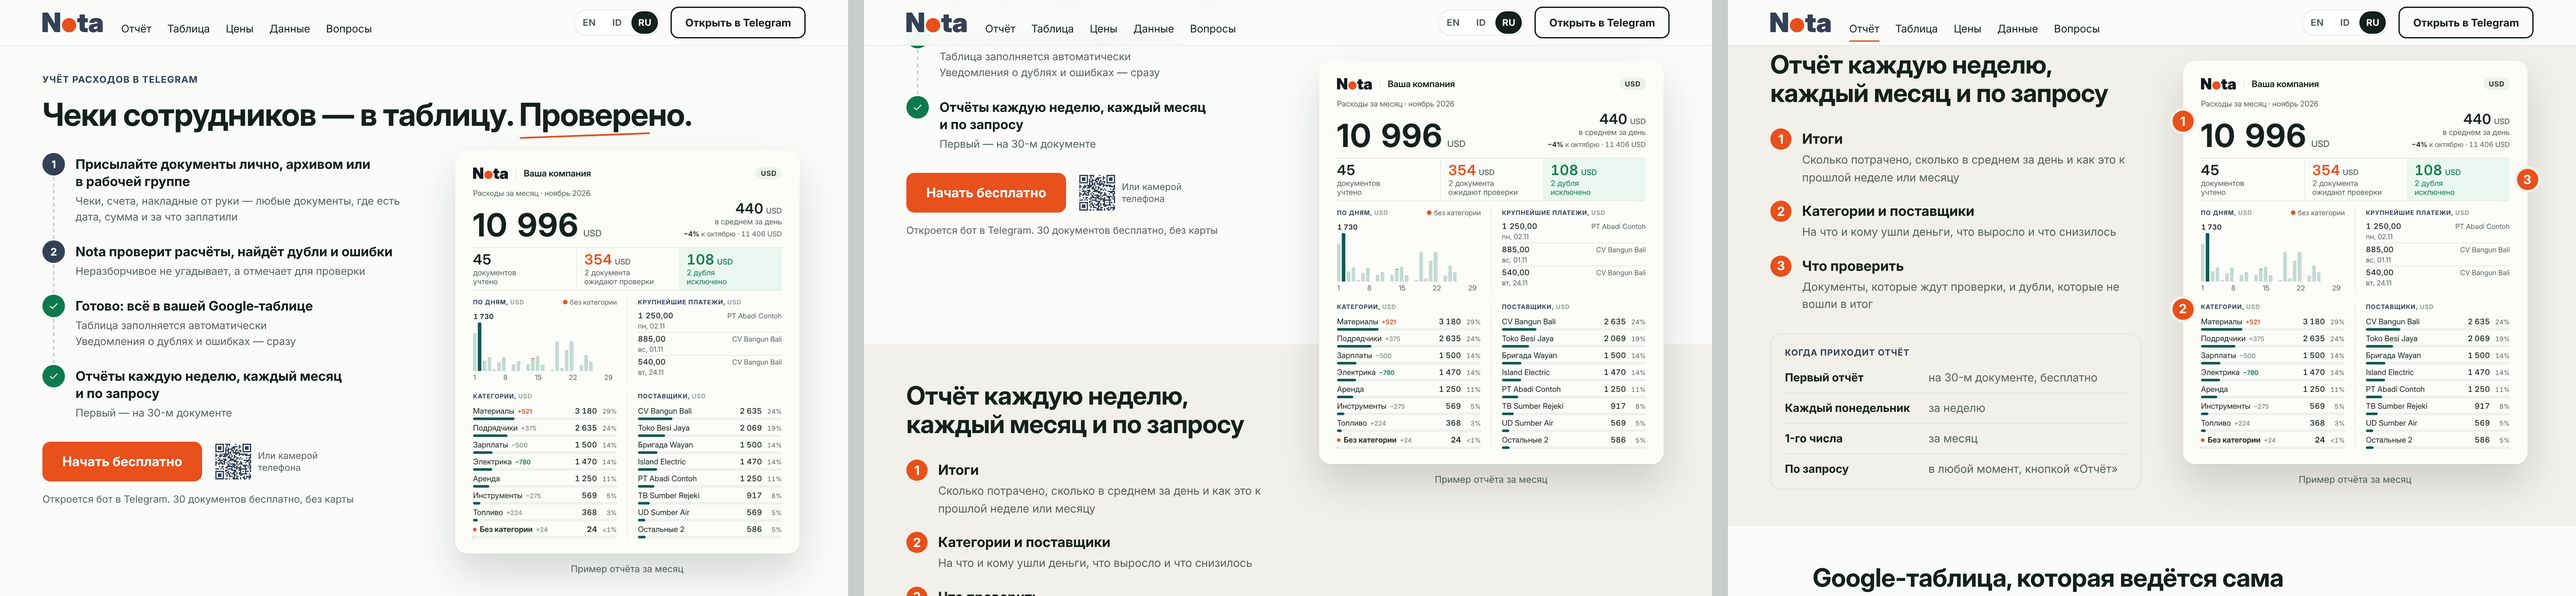
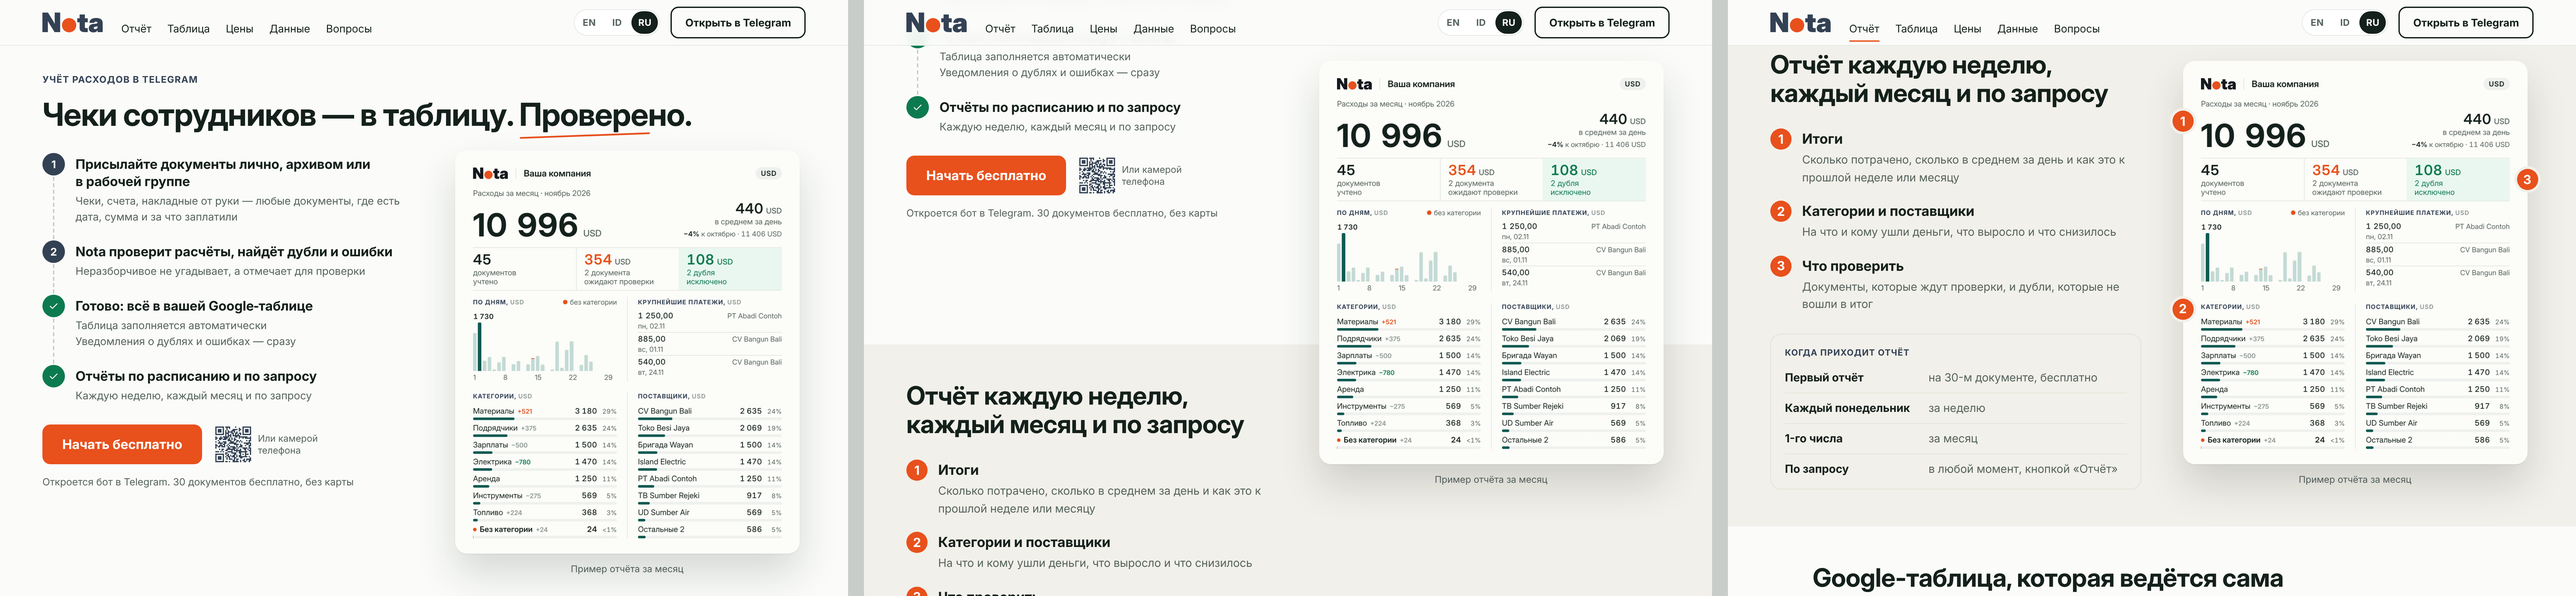
Landing v12 start: reports row title back, schedule in the subline
Claude-Session: https://claude.ai/code/session_01L3HhR7LSGwJtypFbeUeh92

Changed region(s): [[0.3438, 0.1556, 0.4688, 0.4044], [0.0, 0.6222, 0.125, 0.84]]

diff --git a/nota/src/data/content-v12.ts b/nota/src/data/content-v12.ts
@@ -24,8 +24,8 @@ export const start = {
     { mark: 'ok', title: 'Готово: всё в\u00a0вашей Google\u2011таблице',
       lines: ['Таблица заполняется автоматически', 'Уведомления о\u00a0дублях и\u00a0ошибках\u00a0— сразу'] },
     // Основатель 22.11: отчёты — отдельным пунктом после «Готово»
-    { mark: 'ok', title: 'Отчёты каждую неделю, каждый месяц и\u00a0по\u00a0запросу',
-      lines: ['Первый\u00a0— на\u00a030-м документе'] },
+    { mark: 'ok', title: 'Отчёты по\u00a0расписанию и\u00a0по\u00a0запросу',
+      lines: ['Каждую неделю, каждый месяц и\u00a0по\u00a0запросу'] },
   ],
   ctaLine: 'Откроется бот в Telegram. 30 документов бесплатно, без карты',
   // Отчёт за месяц, тестовые данные (founder/landing-start-sketch/month-report.py): ноябрь по 25-е, доллары

diff --git a/founder/landing-v12-notes.md b/founder/landing-v12-notes.md
@@ -23,7 +23,7 @@
   1. «Присылайте документы лично, архивом или в рабочей группе» — «Чеки, счета, накладные от руки — любые документы, где есть дата, сумма и за что заплатили».
   2. «Nota проверит расчёты, найдёт дубли и ошибки» — «Неразборчивое не угадывает, а отмечает для проверки».
   3. «Готово: всё в вашей Google-таблице» — таблица заполняется автоматически, уведомления о дублях и ошибках сразу.
-  4. «Отчёты каждую неделю, каждый месяц и по запросу» — «Первый — на 30-м документе» (отдельным пунктом, формулировка основателя 22.11).
+  4. «Отчёты по расписанию и по запросу» — «Каждую неделю, каждый месяц и по запросу» (отдельным пунктом, формулировка основателя 22.11).
   - Все строки одного вида: кружок, жирная строка, серые подписи, одна пунктирная линия. Убраны метки способов, реакция ✍ и зелёная заливка «Готово».
   - Тексты взяты из варианта, который лучше всех прошёл панель (5 из 20). Промежуточная версия без пути (подзаголовок и три пункта) не проверялась на панели и отменена.
   - Под кнопкой: «Откроется бот в Telegram. 30 документов бесплатно, без карты».
